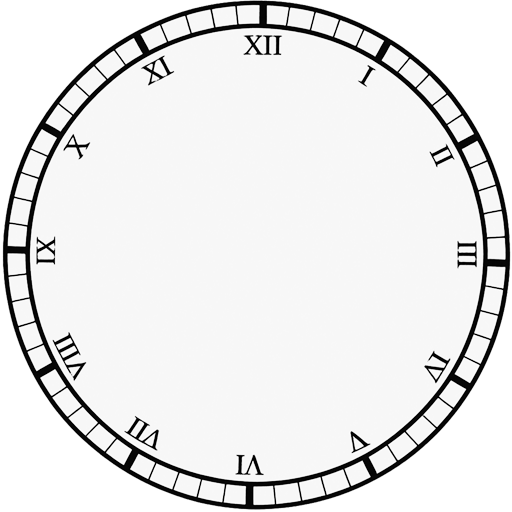
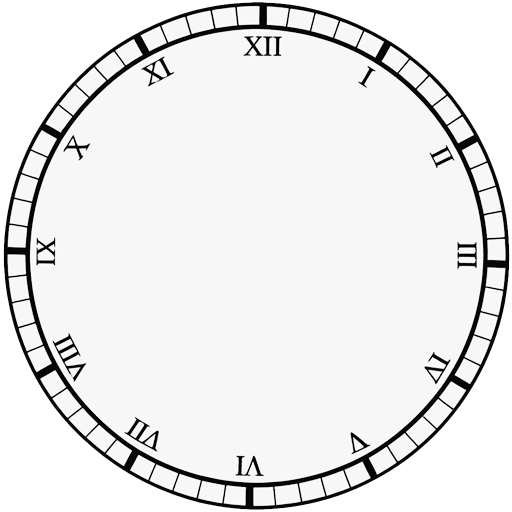
fix bug

diff --git a/ui.js b/ui.js
@@ -344,14 +344,19 @@ document.addEventListener('DOMContentLoaded', () => {
                 if (typeof handleHumanAbilityChoice === 'function') {
                     handleHumanAbilityChoice(globalGameState, 'skip');
                 }
-                // 略過後，若遊戲未結束，自動執行 startRound 進入下一回合
-                // 這樣玩家就不需要再按一次按鈕了
+                
                 if (!globalGameState.gameEnded) {
-                    startRound(globalGameState);
+                    try {
+                        if (typeof window.startRound === 'function') window.startRound(globalGameState);
+                        else if (typeof startRound === 'function') startRound(globalGameState);
+                        else appLogger.log("❌ 致命錯誤：找不到 startRound 函式！請按 F12 檢查 game.js 是否有語法錯誤。");
+                    } catch (e) {
+                        appLogger.log("❌ 執行下一回合時程式崩潰，請按 F12 查看詳細錯誤！");
+                        console.error(e);
+                    }
                     updateUI(globalGameState);
                 }
-
-                return; // 執行完略過後就結束，不繼續執行 startRound
+                return; 
             }
 
             const humanId = getCurrentHumanPlayerId();
@@ -367,7 +372,15 @@ document.addEventListener('DOMContentLoaded', () => {
             }
 
             if (!globalGameState.gameEnded) {
-                startRound(globalGameState);
+                try {
+                    // 👇 改用 Try-Catch 捕捉真正的錯誤 👇
+                    if (typeof window.startRound === 'function') window.startRound(globalGameState);
+                    else if (typeof startRound === 'function') startRound(globalGameState);
+                    else appLogger.log("❌ 致命錯誤：找不到 startRound 函式！請按 F12 檢查 game.js 是否有語法錯誤。");
+                } catch (e) {
+                    appLogger.log("❌ 執行下一回合時程式崩潰，請按 F12 查看詳細錯誤！");
+                    console.error(e);
+                }
                 updateUI(globalGameState);
 
             } else {

diff --git a/game.js b/game.js
@@ -1145,7 +1145,8 @@ function inRoundEndActions(gameState) {
     //}
 
     // 受詛者保護卡片
-	const sczPlayer = gameState.players.find(p => p.type === '受詛者' && !p.isEjected);
+	// 受詛者保護卡片
+    const sczPlayer = gameState.players.find(p => p.type === '受詛者' && !p.isEjected);
     if (sczPlayer && sczPlayer.currentClockPosition) {
         const currentSpot = gameState.clockFace.find(s => s.position === sczPlayer.currentClockPosition);
         // ✅ 加上 currentSpot 與其陣列的安全防護
@@ -1155,8 +1156,11 @@ function inRoundEndActions(gameState) {
                 const preciousCard = currentSpot.cards.splice(preciousCardIndex, 1)[0];
                 currentSpot.cards.unshift(preciousCard); 
                 appLogger.log(`🛡【受詛者】將珍貴小時卡 [${preciousCard.number}] 移至鐘面最底部保護。`);
+            }
         }
     }
+
+    // 角色升級嘗試
     
     // 角色升級嘗試
     gameState.players.filter(p => p.type === '時魔' && !p.isEjected).forEach(player => {
@@ -1421,5 +1425,11 @@ try {
         window.handleHumanSecondHandCommit = handleHumanSecondHandCommit;
         window.handleHumanSecondHandFinalChoice = handleHumanSecondHandFinalChoice;
         window.getEffectiveHumanPlayerId = getEffectiveHumanPlayerId;
+		
+		if (typeof updateUI !== 'undefined') {
+            window.updateUI = updateUI;
+        }
     }
-} catch (_) {}
+} catch (e) {
+    console.error("[game.js] API 暴露失敗:", e);
+}
